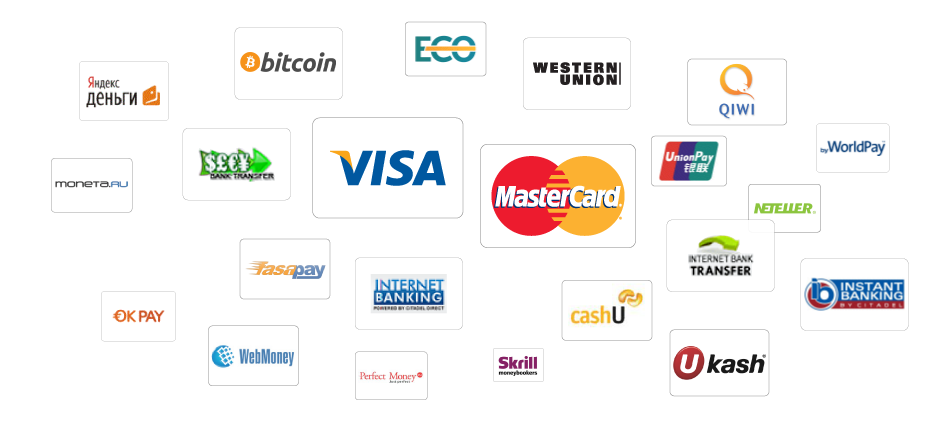
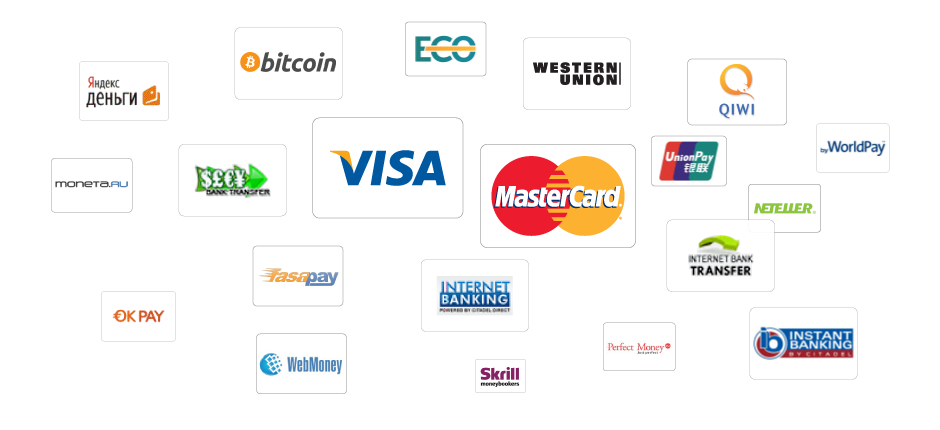
remove ukash

diff --git a/src/sass/pages/cashier.scss b/src/sass/pages/cashier.scss
@@ -58,11 +58,6 @@
     width: 72px;
     height: 57px;
 }
-#ukash{
-    background: url('../images/pages/cashier/payment_methods_sprite_1.png') no-repeat -341px -73px;
-    width: 72px;
-    height: 57px;
-}
 #qiwi{
     background: url('../images/pages/cashier/payment_methods_sprite_1.png') no-repeat -10px -136px;
     width: 72px;
